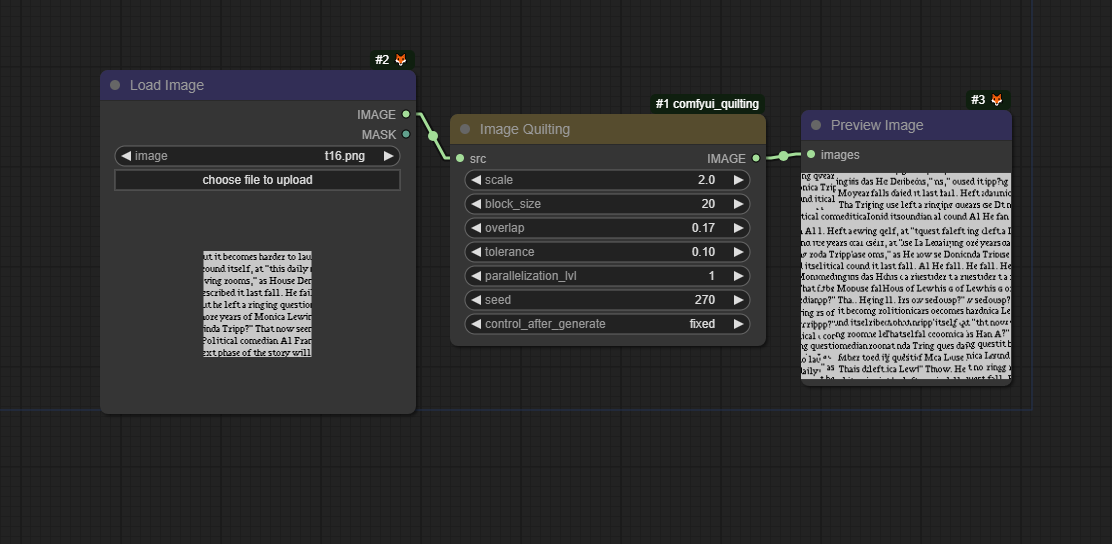
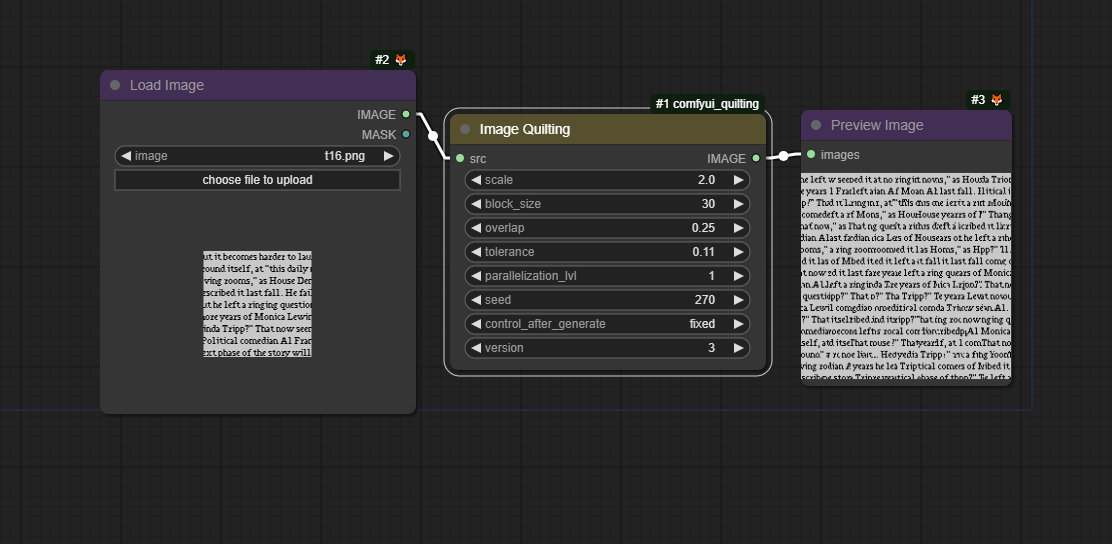
Update README.md & workflow images - add new version argument.
_______________________________
DevNote
a thought just occurred to me, of a likely blunder in nice block size.
there should, at the very minimum, be an addressable area of size equal to the lowest "best" multiple; and the bigger the addressable area the more variation allowed. Therefore, instead of aiming for a highest multiple to maximize performance, I should take this into consideration and further limit the maximum possible value, or define some criteria to better balance the decision.

diff --git a/README.md b/README.md
@@ -59,3 +59,14 @@ The sides where the overlap occurs differ for each quadrant,
 so it is not possible to reproduce the same result as the sequential algorithm. Higher levels of parallelization do not suffer from this problem conceptually, 
 however the current implementation won't generate the same output.
 
+### version
+
+The version parameter affects only patch search and selection. For better performance, it is recommended to use a version above zero. The behaviors for each version are as follows:
+
+* 0: Uses the original jena2020 implementation with numpy, calculating the mean of squared differences for each overlapping section and summing these results. This option provides the same results as version 1.0.0.
+
+* 1: Similar to version 0 but utilizes OpenCV's matchTemplate with the TM_SQDIFF option, improving performance.
+
+* 2: Builds on version 1 by using the maximum error of all overlapping sections to minimize worst-case edges. For image nodes, the CIELAB color space is used instead of RGB.
+
+* 3: Employs matchTemplate with the TM_CCOEFF_NORMED option. The final error is 1 minus the minimum value from all overlapping sections, also minimizing worst-case edges.
